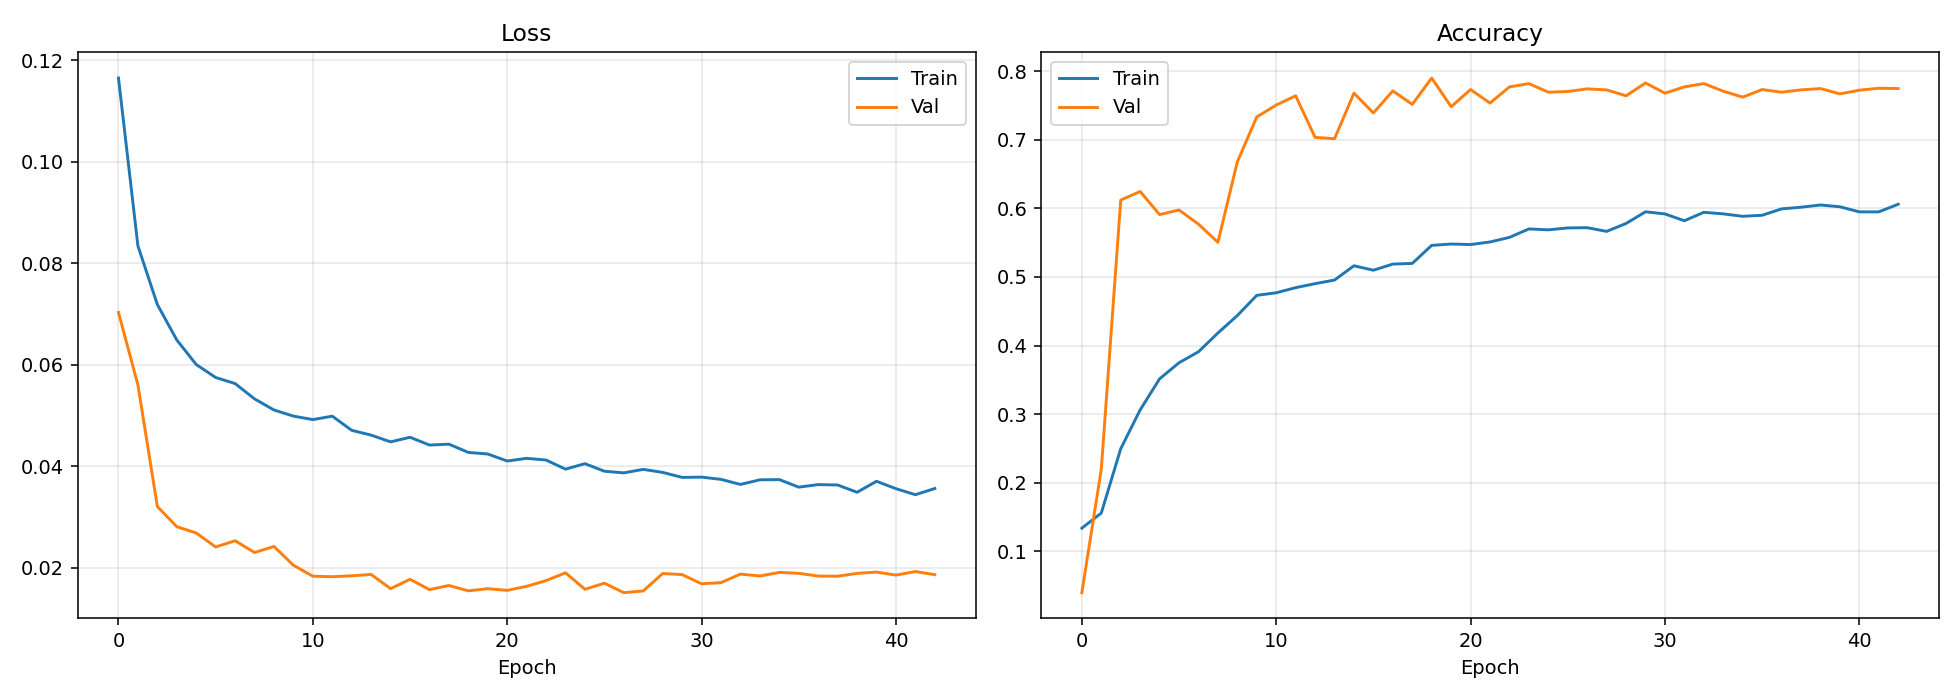
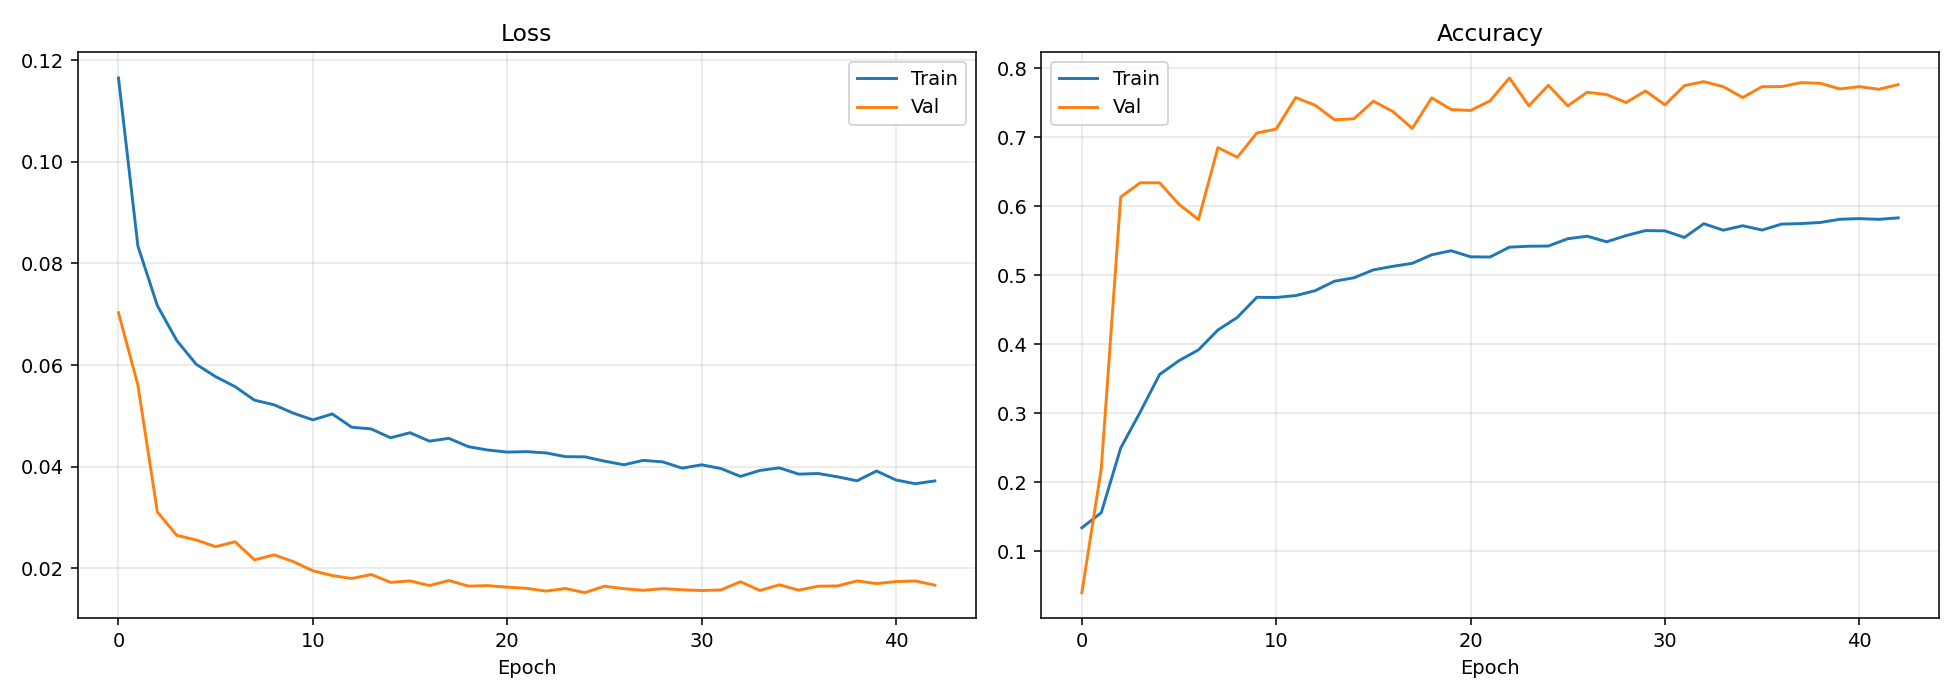
fix scenario 2

diff --git a/kansas/BiLSTM_Scenario2A_Correlation.py b/kansas/BiLSTM_Scenario2A_Correlation.py
@@ -188,21 +188,34 @@ corr_matrix = train_df[feature_cols].corr().abs()
 print(f'\n3. Greedy correlation pruning (threshold={CORRELATION_THRESHOLD})...')
 selected_features = []
 pruned_pairs = []
+selected_feature_ranking = []
 
 for idx in mi_ranking:
     feat_name = feature_cols[idx]
+    feat_mi = float(mi_scores[idx])
     
     # Check if this feature is highly correlated with any already-selected feature
     is_pruned = False
-    for selected_feat_idx in [feature_cols.index(sf) for sf in selected_features]:
-        if corr_matrix.loc[feat_name, feature_cols[selected_feat_idx]] > CORRELATION_THRESHOLD:
+    max_abs_corr_prev = 0.0
+    max_corr_prev_feat = None
+    for selected_feat in selected_features:
+        corr_val = float(corr_matrix.loc[feat_name, selected_feat])
+        if corr_val > max_abs_corr_prev:
+            max_abs_corr_prev = corr_val
+            max_corr_prev_feat = selected_feat
+        if corr_val > CORRELATION_THRESHOLD:
             is_pruned = True
-            pruned_pairs.append((feat_name, feature_cols[selected_feat_idx], 
-                               corr_matrix.loc[feat_name, feature_cols[selected_feat_idx]]))
+            pruned_pairs.append((feat_name, selected_feat, corr_val))
             break
     
     if not is_pruned:
         selected_features.append(feat_name)
+        selected_feature_ranking.append({
+            'feature': feat_name,
+            'mi_score': feat_mi,
+            'max_abs_corr_prev': max_abs_corr_prev,
+            'max_corr_prev_feat': max_corr_prev_feat,
+        })
     
     if len(selected_features) >= TARGET_FEATURE_COUNT:
         break
@@ -211,6 +224,7 @@ if len(selected_features) < TARGET_FEATURE_COUNT:
     print(f'WARNING: Only {len(selected_features)} features selected (target was {TARGET_FEATURE_COUNT})')
 else:
     selected_features = selected_features[:TARGET_FEATURE_COUNT]
+    selected_feature_ranking = selected_feature_ranking[:TARGET_FEATURE_COUNT]
 
 print(f'\nPruned {len(pruned_pairs)} features due to multicollinearity:')
 for feat_dropped, feat_kept, corr_val in pruned_pairs[:10]:
@@ -222,6 +236,15 @@ feature_cols_corr = selected_features
 print(f'\n4. Final selected features (count={len(feature_cols_corr)}):')
 for i, feat in enumerate(feature_cols_corr, 1):
     print(f'  {i:2d}. {feat}')
+
+print('\nSelected feature ranking details (correlation-aware):')
+for rank, row in enumerate(selected_feature_ranking, 1):
+    anchor = row['max_corr_prev_feat'] if row['max_corr_prev_feat'] is not None else '-'
+    print(
+        f"  {rank:2d}. {row['feature']:30s} "
+        f"| MI={row['mi_score']:.6f} "
+        f"| max|corr|={row['max_abs_corr_prev']:.4f} (vs {anchor})"
+    )
 
 # Replace feature_cols with selected features
 feature_cols = feature_cols_corr
@@ -643,6 +666,13 @@ with open(summary_path, 'w', encoding='utf-8') as f:
     f.write(f'Correlation threshold: {CORRELATION_THRESHOLD}\n')
     f.write(f'Final selected feature count: {len(feature_cols_corr)}\n')
     f.write(f'Selected features: {feature_cols_corr}\n')
+    f.write('Selected feature ranking (correlation-aware):\n')
+    f.write('  rank | feature | max_abs_corr_with_higher_ranked_feature | compared_to\n')
+    for rank, row in enumerate(selected_feature_ranking, 1):
+        anchor = row['max_corr_prev_feat'] if row['max_corr_prev_feat'] is not None else '-'
+        f.write(
+            f"  {rank:2d} | {row['feature']} | {row['max_abs_corr_prev']:.4f} | {anchor}\n"
+        )
     f.write(f'\n--- RESULTS ---\n')
     f.write(f'Val Macro F1 (best trial): {best_val_macro_f1:.4f}\n')
     f.write(f'Val Macro F1 (raw/tuned): {raw_val_macro_f1:.4f} / {tuned_val_macro_f1:.4f}\n')

diff --git a/kansas/BiLSTM_Scenario2B_Correlation.py b/kansas/BiLSTM_Scenario2B_Correlation.py
@@ -188,21 +188,34 @@ corr_matrix = train_df[feature_cols].corr().abs()
 print(f'\n3. Greedy correlation pruning (threshold={CORRELATION_THRESHOLD})...')
 selected_features = []
 pruned_pairs = []
+selected_feature_ranking = []
 
 for idx in mi_ranking:
     feat_name = feature_cols[idx]
+    feat_mi = float(mi_scores[idx])
     
     # Check if this feature is highly correlated with any already-selected feature
     is_pruned = False
-    for selected_feat_idx in [feature_cols.index(sf) for sf in selected_features]:
-        if corr_matrix.loc[feat_name, feature_cols[selected_feat_idx]] > CORRELATION_THRESHOLD:
+    max_abs_corr_prev = 0.0
+    max_corr_prev_feat = None
+    for selected_feat in selected_features:
+        corr_val = float(corr_matrix.loc[feat_name, selected_feat])
+        if corr_val > max_abs_corr_prev:
+            max_abs_corr_prev = corr_val
+            max_corr_prev_feat = selected_feat
+        if corr_val > CORRELATION_THRESHOLD:
             is_pruned = True
-            pruned_pairs.append((feat_name, feature_cols[selected_feat_idx], 
-                               corr_matrix.loc[feat_name, feature_cols[selected_feat_idx]]))
+            pruned_pairs.append((feat_name, selected_feat, corr_val))
             break
     
     if not is_pruned:
         selected_features.append(feat_name)
+        selected_feature_ranking.append({
+            'feature': feat_name,
+            'mi_score': feat_mi,
+            'max_abs_corr_prev': max_abs_corr_prev,
+            'max_corr_prev_feat': max_corr_prev_feat,
+        })
     
     if len(selected_features) >= TARGET_FEATURE_COUNT:
         break
@@ -211,6 +224,7 @@ if len(selected_features) < TARGET_FEATURE_COUNT:
     print(f'WARNING: Only {len(selected_features)} features selected (target was {TARGET_FEATURE_COUNT})')
 else:
     selected_features = selected_features[:TARGET_FEATURE_COUNT]
+    selected_feature_ranking = selected_feature_ranking[:TARGET_FEATURE_COUNT]
 
 print(f'\nPruned {len(pruned_pairs)} features due to multicollinearity:')
 for feat_dropped, feat_kept, corr_val in pruned_pairs[:10]:
@@ -222,6 +236,15 @@ feature_cols_corr = selected_features
 print(f'\n4. Final selected features (count={len(feature_cols_corr)}):')
 for i, feat in enumerate(feature_cols_corr, 1):
     print(f'  {i:2d}. {feat}')
+
+print('\nSelected feature ranking details (correlation-aware):')
+for rank, row in enumerate(selected_feature_ranking, 1):
+    anchor = row['max_corr_prev_feat'] if row['max_corr_prev_feat'] is not None else '-'
+    print(
+        f"  {rank:2d}. {row['feature']:30s} "
+        f"| MI={row['mi_score']:.6f} "
+        f"| max|corr|={row['max_abs_corr_prev']:.4f} (vs {anchor})"
+    )
 
 # Replace feature_cols with selected features
 feature_cols = feature_cols_corr
@@ -643,6 +666,13 @@ with open(summary_path, 'w', encoding='utf-8') as f:
     f.write(f'Correlation threshold: {CORRELATION_THRESHOLD}\n')
     f.write(f'Final selected feature count: {len(feature_cols_corr)}\n')
     f.write(f'Selected features: {feature_cols_corr}\n')
+    f.write('Selected feature ranking (correlation-aware):\n')
+    f.write('  rank | feature | max_abs_corr_with_higher_ranked_feature | compared_to\n')
+    for rank, row in enumerate(selected_feature_ranking, 1):
+        anchor = row['max_corr_prev_feat'] if row['max_corr_prev_feat'] is not None else '-'
+        f.write(
+            f"  {rank:2d} | {row['feature']} | {row['max_abs_corr_prev']:.4f} | {anchor}\n"
+        )
     f.write(f'\n--- RESULTS ---\n')
     f.write(f'Val Macro F1 (best trial): {best_val_macro_f1:.4f}\n')
     f.write(f'Val Macro F1 (raw/tuned): {raw_val_macro_f1:.4f} / {tuned_val_macro_f1:.4f}\n')

diff --git a/kansas/BiLSTM_Scenario2C_Correlation.py b/kansas/BiLSTM_Scenario2C_Correlation.py
@@ -188,21 +188,34 @@ corr_matrix = train_df[feature_cols].corr().abs()
 print(f'\n3. Greedy correlation pruning (threshold={CORRELATION_THRESHOLD})...')
 selected_features = []
 pruned_pairs = []
+selected_feature_ranking = []
 
 for idx in mi_ranking:
     feat_name = feature_cols[idx]
+    feat_mi = float(mi_scores[idx])
     
     # Check if this feature is highly correlated with any already-selected feature
     is_pruned = False
-    for selected_feat_idx in [feature_cols.index(sf) for sf in selected_features]:
-        if corr_matrix.loc[feat_name, feature_cols[selected_feat_idx]] > CORRELATION_THRESHOLD:
+    max_abs_corr_prev = 0.0
+    max_corr_prev_feat = None
+    for selected_feat in selected_features:
+        corr_val = float(corr_matrix.loc[feat_name, selected_feat])
+        if corr_val > max_abs_corr_prev:
+            max_abs_corr_prev = corr_val
+            max_corr_prev_feat = selected_feat
+        if corr_val > CORRELATION_THRESHOLD:
             is_pruned = True
-            pruned_pairs.append((feat_name, feature_cols[selected_feat_idx], 
-                               corr_matrix.loc[feat_name, feature_cols[selected_feat_idx]]))
+            pruned_pairs.append((feat_name, selected_feat, corr_val))
             break
     
     if not is_pruned:
         selected_features.append(feat_name)
+        selected_feature_ranking.append({
+            'feature': feat_name,
+            'mi_score': feat_mi,
+            'max_abs_corr_prev': max_abs_corr_prev,
+            'max_corr_prev_feat': max_corr_prev_feat,
+        })
     
     if len(selected_features) >= TARGET_FEATURE_COUNT:
         break
@@ -211,6 +224,7 @@ if len(selected_features) < TARGET_FEATURE_COUNT:
     print(f'WARNING: Only {len(selected_features)} features selected (target was {TARGET_FEATURE_COUNT})')
 else:
     selected_features = selected_features[:TARGET_FEATURE_COUNT]
+    selected_feature_ranking = selected_feature_ranking[:TARGET_FEATURE_COUNT]
 
 print(f'\nPruned {len(pruned_pairs)} features due to multicollinearity:')
 for feat_dropped, feat_kept, corr_val in pruned_pairs[:10]:
@@ -222,6 +236,15 @@ feature_cols_corr = selected_features
 print(f'\n4. Final selected features (count={len(feature_cols_corr)}):')
 for i, feat in enumerate(feature_cols_corr, 1):
     print(f'  {i:2d}. {feat}')
+
+print('\nSelected feature ranking details (correlation-aware):')
+for rank, row in enumerate(selected_feature_ranking, 1):
+    anchor = row['max_corr_prev_feat'] if row['max_corr_prev_feat'] is not None else '-'
+    print(
+        f"  {rank:2d}. {row['feature']:30s} "
+        f"| MI={row['mi_score']:.6f} "
+        f"| max|corr|={row['max_abs_corr_prev']:.4f} (vs {anchor})"
+    )
 
 # Replace feature_cols with selected features
 feature_cols = feature_cols_corr
@@ -643,6 +666,13 @@ with open(summary_path, 'w', encoding='utf-8') as f:
     f.write(f'Correlation threshold: {CORRELATION_THRESHOLD}\n')
     f.write(f'Final selected feature count: {len(feature_cols_corr)}\n')
     f.write(f'Selected features: {feature_cols_corr}\n')
+    f.write('Selected feature ranking (correlation-aware):\n')
+    f.write('  rank | feature | max_abs_corr_with_higher_ranked_feature | compared_to\n')
+    for rank, row in enumerate(selected_feature_ranking, 1):
+        anchor = row['max_corr_prev_feat'] if row['max_corr_prev_feat'] is not None else '-'
+        f.write(
+            f"  {rank:2d} | {row['feature']} | {row['max_abs_corr_prev']:.4f} | {anchor}\n"
+        )
     f.write(f'\n--- RESULTS ---\n')
     f.write(f'Val Macro F1 (best trial): {best_val_macro_f1:.4f}\n')
     f.write(f'Val Macro F1 (raw/tuned): {raw_val_macro_f1:.4f} / {tuned_val_macro_f1:.4f}\n')

diff --git a/kansas/BiLSTM_Scenario2_Correlation.py b/kansas/BiLSTM_Scenario2_Correlation.py
@@ -188,21 +188,34 @@ corr_matrix = train_df[feature_cols].corr().abs()
 print(f'\n3. Greedy correlation pruning (threshold={CORRELATION_THRESHOLD})...')
 selected_features = []
 pruned_pairs = []
+selected_feature_ranking = []
 
 for idx in mi_ranking:
     feat_name = feature_cols[idx]
+    feat_mi = float(mi_scores[idx])
     
     # Check if this feature is highly correlated with any already-selected feature
     is_pruned = False
-    for selected_feat_idx in [feature_cols.index(sf) for sf in selected_features]:
-        if corr_matrix.loc[feat_name, feature_cols[selected_feat_idx]] > CORRELATION_THRESHOLD:
+    max_abs_corr_prev = 0.0
+    max_corr_prev_feat = None
+    for selected_feat in selected_features:
+        corr_val = float(corr_matrix.loc[feat_name, selected_feat])
+        if corr_val > max_abs_corr_prev:
+            max_abs_corr_prev = corr_val
+            max_corr_prev_feat = selected_feat
+        if corr_val > CORRELATION_THRESHOLD:
             is_pruned = True
-            pruned_pairs.append((feat_name, feature_cols[selected_feat_idx], 
-                               corr_matrix.loc[feat_name, feature_cols[selected_feat_idx]]))
+            pruned_pairs.append((feat_name, selected_feat, corr_val))
             break
     
     if not is_pruned:
         selected_features.append(feat_name)
+        selected_feature_ranking.append({
+            'feature': feat_name,
+            'mi_score': feat_mi,
+            'max_abs_corr_prev': max_abs_corr_prev,
+            'max_corr_prev_feat': max_corr_prev_feat,
+        })
     
     if len(selected_features) >= TARGET_FEATURE_COUNT:
         break
@@ -211,6 +224,7 @@ if len(selected_features) < TARGET_FEATURE_COUNT:
     print(f'WARNING: Only {len(selected_features)} features selected (target was {TARGET_FEATURE_COUNT})')
 else:
     selected_features = selected_features[:TARGET_FEATURE_COUNT]
+    selected_feature_ranking = selected_feature_ranking[:TARGET_FEATURE_COUNT]
 
 print(f'\nPruned {len(pruned_pairs)} features due to multicollinearity:')
 for feat_dropped, feat_kept, corr_val in pruned_pairs[:10]:
@@ -222,6 +236,15 @@ feature_cols_corr = selected_features
 print(f'\n4. Final selected features (count={len(feature_cols_corr)}):')
 for i, feat in enumerate(feature_cols_corr, 1):
     print(f'  {i:2d}. {feat}')
+
+print('\nSelected feature ranking details (correlation-aware):')
+for rank, row in enumerate(selected_feature_ranking, 1):
+    anchor = row['max_corr_prev_feat'] if row['max_corr_prev_feat'] is not None else '-'
+    print(
+        f"  {rank:2d}. {row['feature']:30s} "
+        f"| MI={row['mi_score']:.6f} "
+        f"| max|corr|={row['max_abs_corr_prev']:.4f} (vs {anchor})"
+    )
 
 # Replace feature_cols with selected features
 feature_cols = feature_cols_corr
@@ -643,6 +666,13 @@ with open(summary_path, 'w', encoding='utf-8') as f:
     f.write(f'Correlation threshold: {CORRELATION_THRESHOLD}\n')
     f.write(f'Final selected feature count: {len(feature_cols_corr)}\n')
     f.write(f'Selected features: {feature_cols_corr}\n')
+    f.write('Selected feature ranking (correlation-aware):\n')
+    f.write('  rank | feature | max_abs_corr_with_higher_ranked_feature | compared_to\n')
+    for rank, row in enumerate(selected_feature_ranking, 1):
+        anchor = row['max_corr_prev_feat'] if row['max_corr_prev_feat'] is not None else '-'
+        f.write(
+            f"  {rank:2d} | {row['feature']} | {row['max_abs_corr_prev']:.4f} | {anchor}\n"
+        )
     f.write(f'\n--- RESULTS ---\n')
     f.write(f'Val Macro F1 (best trial): {best_val_macro_f1:.4f}\n')
     f.write(f'Val Macro F1 (raw/tuned): {raw_val_macro_f1:.4f} / {tuned_val_macro_f1:.4f}\n')